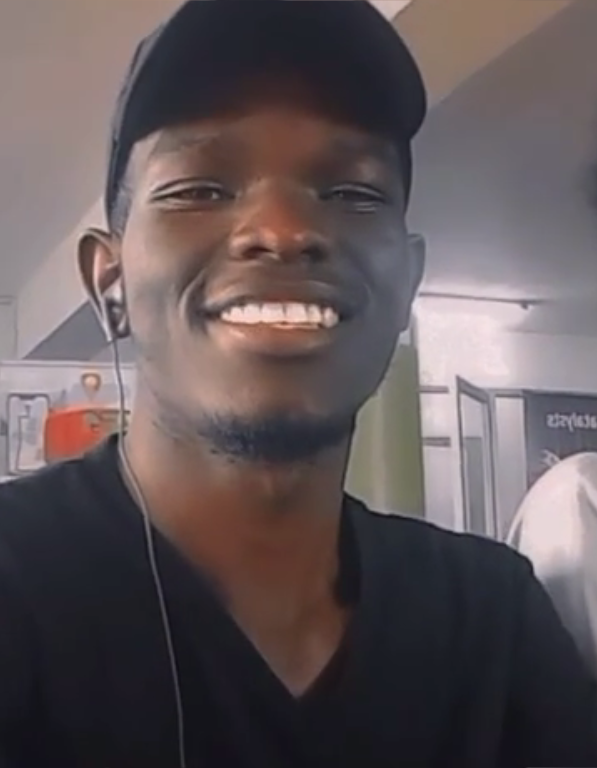
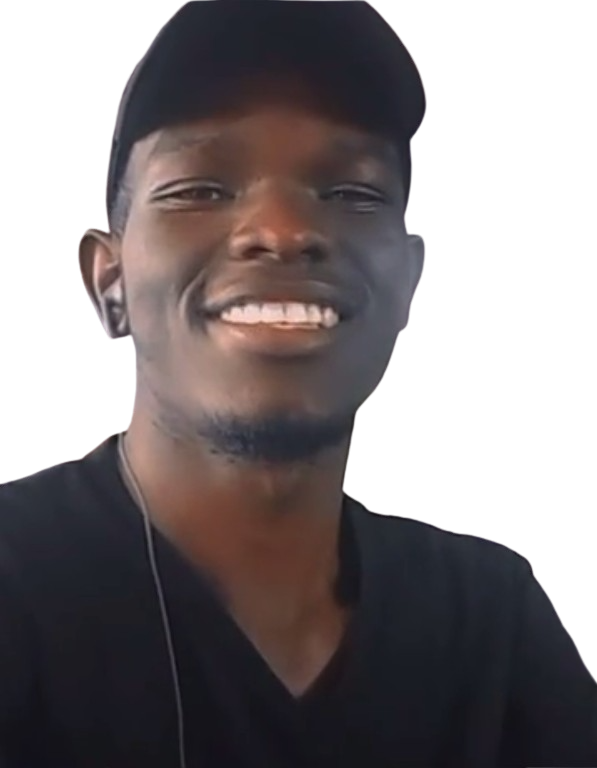
make img transparent

diff --git a/src/assets/css/header.css b/src/assets/css/header.css
@@ -57,7 +57,7 @@ header {
     height: 30rem;
     position: absolute;
     left: calc(50% - 11rem);
-    margin-top: 4rem;
+    margin-top: 1rem;
     border-radius: 12rem 12rem 0 0;
     overflow: hidden;
     padding: 5rem 1.5rem 1.5rem 1.5rem;
